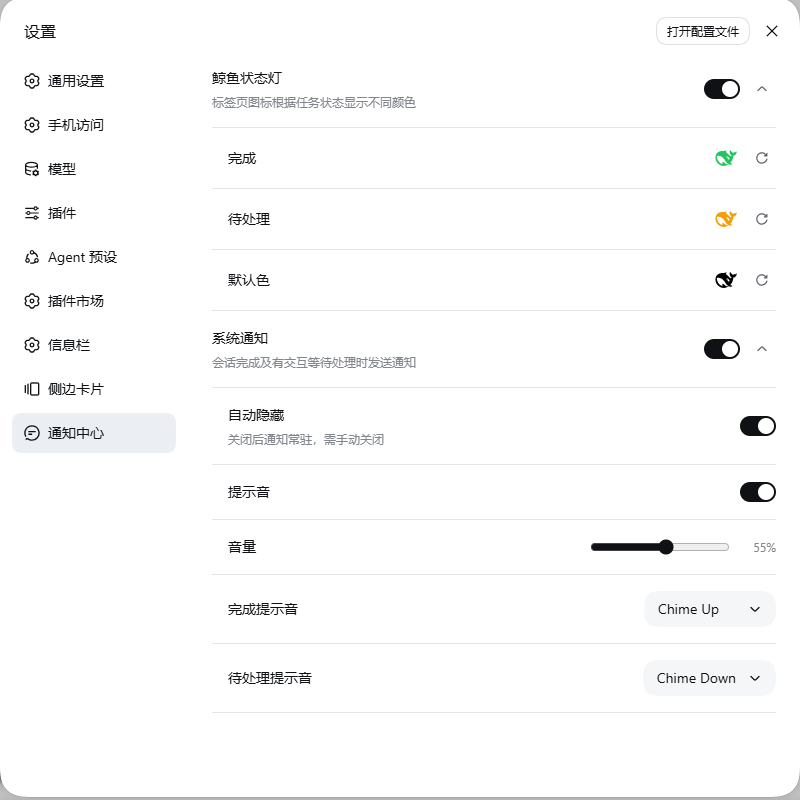
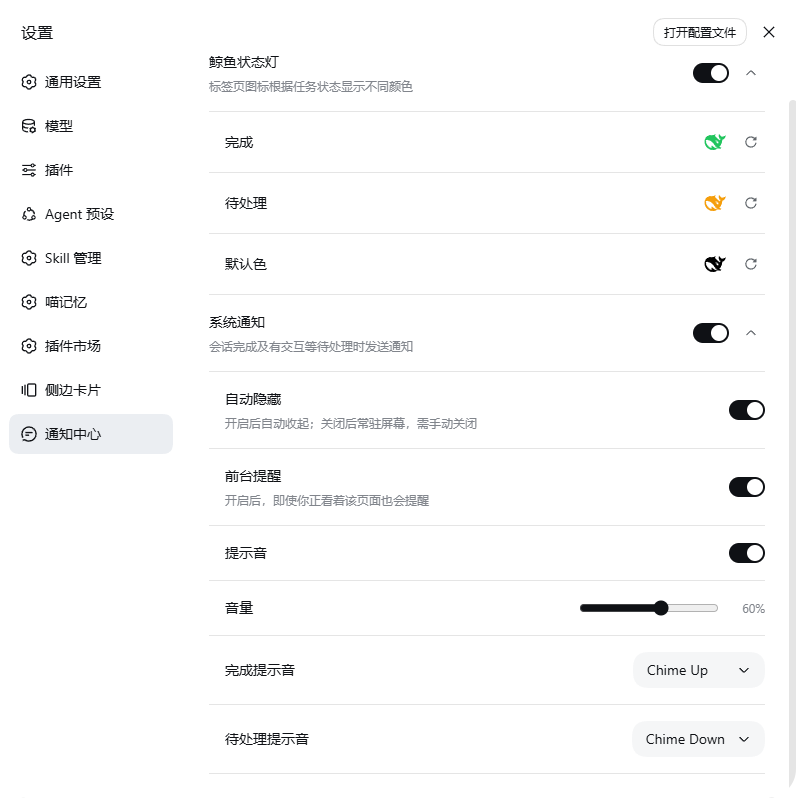
docs: 更新 README 截图
- notification-done / notification-pending：换成本轮真实系统卡片截图
- settings：换成 1.3.0 版设置页截图
- tab-status-light：由单张绿态改为三态拼图（完成绿 / 待处理琥珀 / 默认黑），
  中英文案同步说明自上而下的顺序

diff --git a/README.en.md b/README.en.md
@@ -27,7 +27,7 @@ The **top of the settings page, left-aligned** (above the Whale status light gro
 | 🟠 Amber | A session **awaits you**: question / approval / plan review | Clears once handled |
 | ⚫ Black | All clear (the stock icon) | Default state |
 
-In the tab (green = a session finished):
+In the tab, top to bottom — finished (green), pending (amber), default (black):
 
 ![Tab status light](docs/images/tab-status-light.png)
 
